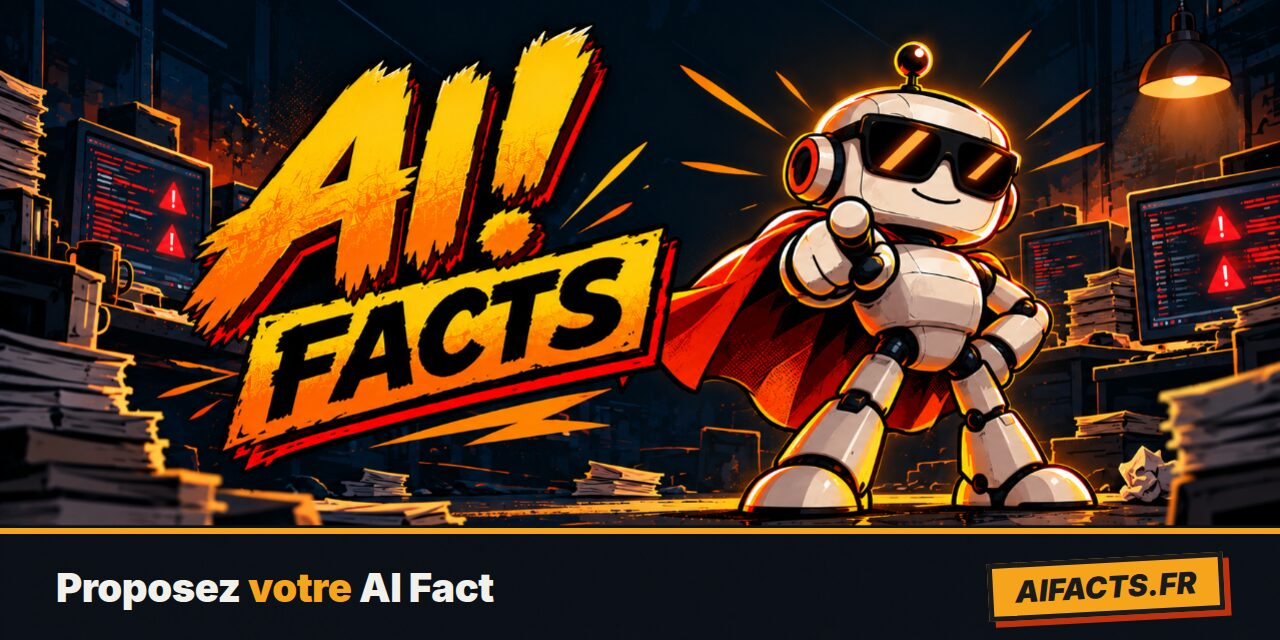
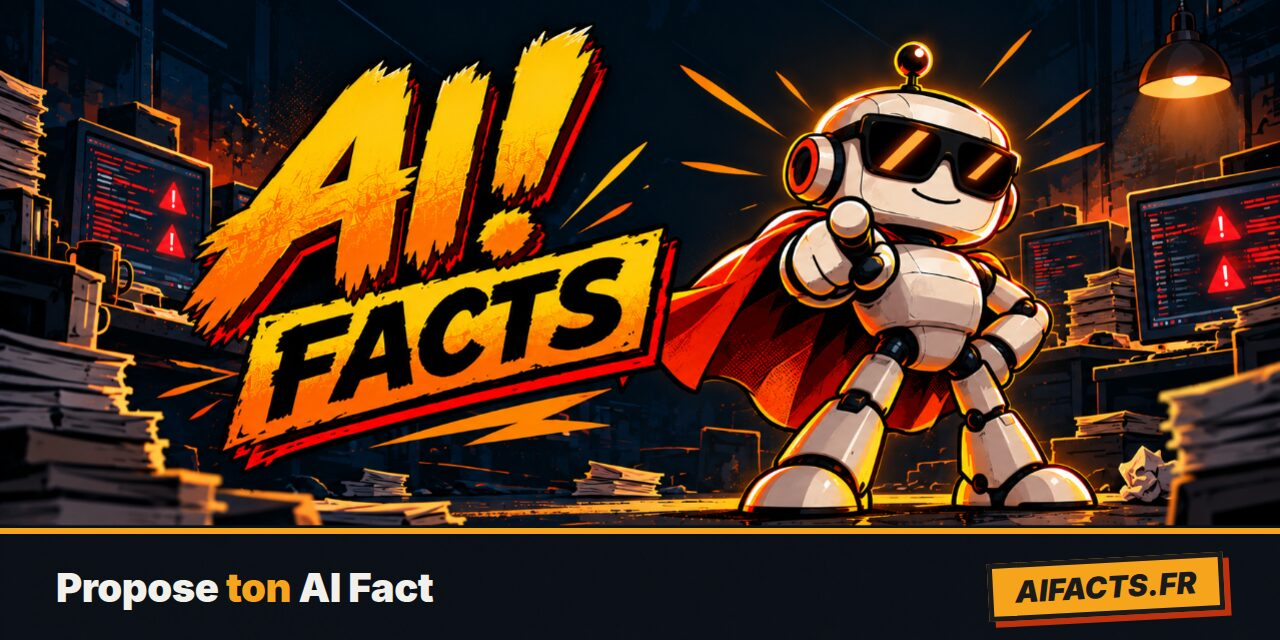
Proposition : aperçu toujours visible et erreurs façon Angular
- mobile : pancarte d'aperçu collée en haut de l'écran pendant la saisie
- grand écran : formulaire et carte côte à côte, la carte suit le défilement
- erreurs affichées en CSS (:user-invalid, ou après une tentative d'envoi)
- bannière « Propose ton AI Fact » (tutoiement)

Claude-Session: https://claude.ai/code/session_01TqedjswTJjNYBePk5txuqT

Changed region(s): [[0.1562, 0.875, 0.4062, 0.9688]]

diff --git a/site/proposer/index.html b/site/proposer/index.html
@@ -4,77 +4,78 @@
 <meta charset="utf-8">
 <meta name="viewport" content="width=device-width, initial-scale=1">
 <title>Proposer un AI Fact – AI! FACTS</title>
-<meta name="description" content="Proposez votre AI Fact : une accroche, une chute. Les meilleurs sont publiés le vendredi sur LinkedIn et sur aifacts.fr, avec le nom de leur auteur.">
-<meta property="og:title" content="Proposez votre AI Fact">
+<meta name="description" content="Propose ton AI Fact : une accroche, une chute. Les meilleurs sont publiés le vendredi sur LinkedIn et sur aifacts.fr, avec le nom de leur auteur.">
+<meta property="og:title" content="Propose ton AI Fact">
 <meta property="og:description" content="Une accroche, une chute. Les meilleurs AI Facts sont publiés le vendredi, avec le nom de leur auteur.">
 <meta property="og:type" content="website">
 <meta property="og:locale" content="fr_FR">
-<meta property="og:image" content="https://aifacts.fr/assets/proposer.jpg">
+<meta property="og:image" content="https://aifacts.fr/assets/proposer.jpg?v=2">
 <meta property="og:url" content="https://aifacts.fr/proposer/">
 <link rel="canonical" href="https://aifacts.fr/proposer/">
 <meta name="twitter:card" content="summary_large_image">
 <link rel="icon" href="/favicon.ico?v=2" sizes="48x48">
 <link rel="icon" type="image/png" href="/assets/favicon-32.png?v=2" sizes="32x32">
 <link rel="apple-touch-icon" href="/assets/apple-touch-icon.png?v=2">
-<link rel="stylesheet" href="/assets/style.css?v=3">
+<link rel="stylesheet" href="/assets/style.css?v=4">
 <script src="/assets/matomo.js"></script>
 </head>
 <body>
-<main>
+<main class="large">
   <a class="retour" href="/">← Retour à l'accueil</a>
-  <img class="banner" src="/assets/proposer.jpg" width="1280" height="640" alt="Le robot AI! FACTS pointe du doigt : « Proposez votre AI Fact ».">
+  <img class="banner" src="/assets/proposer.jpg?v=2" width="1280" height="640" alt="Le robot AI! FACTS pointe du doigt : « Propose ton AI Fact ».">
   <h1 class="visually-hidden">Proposer un AI Fact</h1>
 
-  <form class="propose" id="propose" action="/api/propositions.php" method="post" novalidate>
-    <p class="consigne">Une accroche qui reprend le discours « l'IA sait tout faire », une chute qui le pousse jusqu'à l'absurde.</p>
-
-    <div class="champ">
-      <label for="setup">Accroche</label>
-      <input type="text" name="setup" id="setup" maxlength="160" required aria-describedby="setup-erreur" placeholder="Claude a remplacé une équipe de 10 développeurs.">
-      <p class="erreur-champ" id="setup-erreur"></p>
-    </div>
-    <div class="champ">
-      <label for="punchline">Chute</label>
-      <input type="text" name="punchline" id="punchline" maxlength="160" required aria-describedby="punchline-erreur" placeholder="Il en a fallu 12 pour relire son code.">
-      <p class="erreur-champ" id="punchline-erreur"></p>
-    </div>
-
-    <div class="apercu" id="apercu" hidden>
-      <p>Aperçu</p>
+  <div class="propose-layout">
+    <!-- Aperçu : carte collante à droite sur grand écran, pancarte collante en haut sur mobile -->
+    <div class="apercu" aria-hidden="true">
       <div class="card">
         <img src="/assets/aifacts-robot.jpg" alt="">
         <div class="fact">
-          <p class="a" id="a"></p>
-          <p class="b" id="b"></p>
+          <p class="a vide" id="a"></p>
+          <p class="b vide" id="b"></p>
         </div>
         <p class="tag">Ton fact</p>
       </div>
     </div>
 
-    <div class="champ">
-      <label for="author">Ton nom ou pseudo</label>
-      <span class="aide" id="author-aide">Facultatif, pour te créditer si ton fact est publié.</span>
-      <input type="text" name="author" id="author" maxlength="60" autocomplete="nickname" aria-describedby="author-aide">
-    </div>
+    <form class="propose" id="propose" action="/api/propositions.php" method="post" novalidate>
+      <p class="consigne">Une accroche qui reprend le discours « l'IA sait tout faire », une chute qui le pousse jusqu'à l'absurde.</p>
 
-    <div class="piege" aria-hidden="true">
-      <label>Site web <input type="text" name="site_web" tabindex="-1" autocomplete="off"></label>
-    </div>
-    <input type="hidden" name="t" id="t">
+      <div class="champ">
+        <label for="setup">Accroche</label>
+        <input type="text" name="setup" id="setup" maxlength="160" required pattern=".*\S.*" aria-describedby="setup-erreur" placeholder="Claude a remplacé une équipe de 10 développeurs.">
+        <p class="erreur-champ" id="setup-erreur">Il manque l'accroche.</p>
+      </div>
+      <div class="champ">
+        <label for="punchline">Chute</label>
+        <input type="text" name="punchline" id="punchline" maxlength="160" required pattern=".*\S.*" aria-describedby="punchline-erreur" placeholder="Il en a fallu 12 pour relire son code.">
+        <p class="erreur-champ" id="punchline-erreur">Il manque la chute.</p>
+      </div>
+      <div class="champ">
+        <label for="author">Ton nom ou pseudo</label>
+        <span class="aide" id="author-aide">Facultatif, pour te créditer si ton fact est publié.</span>
+        <input type="text" name="author" id="author" maxlength="60" autocomplete="nickname" aria-describedby="author-aide">
+      </div>
 
-    <div class="champ">
-      <label class="regles">
-        <input type="checkbox" name="regles" id="regles" value="oui" required aria-describedby="regles-erreur">
-        Mon fact est original, ne vise aucune personne réelle et j'accepte sa publication sous licence CC BY 4.0.
-      </label>
-      <p class="erreur-champ" id="regles-erreur"></p>
-    </div>
+      <div class="piege" aria-hidden="true">
+        <label>Site web <input type="text" name="site_web" tabindex="-1" autocomplete="off"></label>
+      </div>
+      <input type="hidden" name="t" id="t">
 
-    <button type="submit" class="btn">Envoyer mon fact</button>
-    <p class="statut" id="statut" role="status"></p>
-    <p class="alt">Les meilleurs sont publiés le vendredi, avec le nom de leur auteur.<br>
-      Tu préfères GitHub ? <a href="https://github.com/manooweb/aifacts/issues/new?template=nouveau-fact.yml">Ouvre une issue</a>.</p>
-  </form>
+      <div class="champ">
+        <label class="regles">
+          <input type="checkbox" name="regles" id="regles" value="oui" required aria-describedby="regles-erreur">
+          Mon fact est original, ne vise aucune personne réelle et j'accepte sa publication sous licence CC BY 4.0.
+        </label>
+        <p class="erreur-champ" id="regles-erreur">Coche cette case pour pouvoir envoyer ton fact.</p>
+      </div>
+
+      <button type="submit" class="btn">Envoyer mon fact</button>
+      <p class="statut" id="statut" role="status"></p>
+      <p class="alt">Les meilleurs sont publiés le vendredi, avec le nom de leur auteur.<br>
+        Tu préfères GitHub ? <a href="https://github.com/manooweb/aifacts/issues/new?template=nouveau-fact.yml">Ouvre une issue</a>.</p>
+    </form>
+  </div>
 </main>
 <footer>aifacts.fr — 100 % véridique* · <span>*ou presque</span> · <a href="https://github.com/manooweb/aifacts">Code source sur GitHub</a></footer>
 
@@ -82,43 +83,30 @@
   const form = document.getElementById('propose');
   const setup = document.getElementById('setup');
   const punchline = document.getElementById('punchline');
-  const regles = document.getElementById('regles');
   const statut = document.getElementById('statut');
-  const apercu = document.getElementById('apercu');
   const horodater = () => { document.getElementById('t').value = Math.floor(Date.now() / 1000); };
   horodater();
 
-  // Aperçu du fact sur la carte pendant la saisie
+  // Aperçu : le texte saisi, ou l'exemple en grisé tant que le champ est vide
+  const afficher = (champ, cible) => {
+    const texte = champ.value.trim();
+    cible.textContent = texte || champ.placeholder;
+    cible.classList.toggle('vide', !texte);
+  };
   const preview = () => {
-    const a = setup.value.trim(), b = punchline.value.trim();
-    apercu.hidden = !a && !b;
-    document.getElementById('a').textContent = a || setup.placeholder;
-    document.getElementById('b').textContent = b || punchline.placeholder;
+    afficher(setup, document.getElementById('a'));
+    afficher(punchline, document.getElementById('b'));
   };
-
-  // Messages d'erreur affichés sous chaque champ (pas de bulles natives)
-  const messages = {
-    setup: 'Il manque l\'accroche.',
-    punchline: 'Il manque la chute.',
-    regles: 'Coche cette case pour pouvoir envoyer ton fact.',
-  };
-  const verifier = (champ) => {
-    const ok = champ.type === 'checkbox' ? champ.checked : champ.value.trim() !== '';
-    champ.setAttribute('aria-invalid', String(!ok));
-    document.getElementById(champ.id + '-erreur').textContent = ok ? '' : messages[champ.id];
-    return ok;
-  };
-  [setup, punchline].forEach((champ) => champ.addEventListener('input', () => {
-    preview();
-    if (champ.getAttribute('aria-invalid') === 'true') verifier(champ);
-  }));
-  regles.addEventListener('change', () => verifier(regles));
+  preview();
+  setup.addEventListener('input', preview);
+  punchline.addEventListener('input', preview);
 
   form.addEventListener('submit', async (e) => {
     e.preventDefault();
-    const invalides = [setup, punchline, regles].filter((champ) => !verifier(champ));
-    if (invalides.length) {
-      invalides[0].focus();
+    // Les erreurs s'affichent en CSS : après la saisie (:user-invalid), ou pour tous les champs après une tentative d'envoi
+    form.classList.add('soumis');
+    if (!form.checkValidity()) {
+      form.querySelector(':invalid').focus();
       return;
     }
     const button = form.querySelector('button');
@@ -133,6 +121,7 @@
       statut.textContent = 'Merci ! Ton fact est en lice pour un prochain vendredi.';
       window._paq && _paq.push(['trackEvent', 'Fact', 'Proposition']);
       form.reset();
+      form.classList.remove('soumis');
       horodater();
       preview();
     } catch (err) {

diff --git a/site/assets/style.css b/site/assets/style.css
@@ -66,8 +66,10 @@ footer { margin-top: 40px; color: var(--muted); font-size: 13px; text-align: cen
 .intro p { margin: 0; color: var(--muted); font-size: 16px; line-height: 1.5; }
 
 /* Page de proposition */
-.banner { width: 100%; height: auto; display: block; border-radius: 12px; box-shadow: 0 20px 60px rgba(0,0,0,.6); }
+main.large { max-width: 1100px; }
+.banner { width: 100%; max-width: 760px; height: auto; display: block; border-radius: 12px; box-shadow: 0 20px 60px rgba(0,0,0,.6); }
 .retour { align-self: flex-start; font-size: 14px; }
+.propose-layout { width: 100%; max-width: 640px; display: flex; flex-direction: column; gap: 18px; }
 .propose { width: 100%; display: flex; flex-direction: column; gap: 18px; }
 .propose .consigne { margin: 0; color: var(--muted); line-height: 1.5; text-align: center; }
 .champ { display: flex; flex-direction: column; gap: 6px; }
@@ -80,17 +82,44 @@ footer { margin-top: 40px; color: var(--muted); font-size: 13px; text-align: cen
 }
 .champ input[type=text]::placeholder { color: #8C8478; font-weight: 400; }
 .champ input[type=text]:focus-visible { outline: 3px solid var(--amber); outline-offset: 2px; }
-.champ input[aria-invalid=true] { border-color: var(--error); box-shadow: 4px 4px 0 var(--error); }
-.erreur-champ { margin: 0; color: var(--error); font-size: 14px; font-weight: 700; }
-.erreur-champ:empty { display: none; }
 .champ label.regles { font-weight: 400; }
 .regles { display: flex; align-items: flex-start; gap: 10px; color: var(--muted); font-size: 14px; line-height: 1.4; }
 .regles input { width: 20px; height: 20px; margin: 0; flex: none; accent-color: var(--amber); }
-.apercu { display: flex; flex-direction: column; gap: 10px; }
-.apercu > p { margin: 0; font-weight: 800; font-size: 15px; }
 .propose .btn { align-self: center; margin-top: 6px; }
 .piege { position: absolute; left: -9999px; width: 1px; height: 1px; overflow: hidden; }
 .statut { margin: 0; min-height: 1.4em; text-align: center; font-weight: 800; }
 .statut.ok { color: var(--amber); }
 .statut.erreur { color: var(--error); }
 .alt { margin: 0; text-align: center; color: var(--muted); font-size: 14px; line-height: 1.5; }
+
+/* Erreurs façon Angular : un champ n'est signalé qu'une fois touché (:user-invalid), ou après une tentative d'envoi (.soumis) */
+.erreur-champ { display: none; margin: 0; color: var(--error); font-size: 14px; font-weight: 700; }
+.champ input:user-invalid ~ .erreur-champ,
+.soumis .champ input:invalid ~ .erreur-champ,
+.champ .regles:has(input:user-invalid) ~ .erreur-champ,
+.soumis .champ .regles:has(input:invalid) ~ .erreur-champ { display: block; }
+.champ input[type=text]:user-invalid,
+.soumis .champ input[type=text]:invalid { border-color: var(--error); box-shadow: 4px 4px 0 var(--error); }
+
+/* Aperçu : texte d'exemple en grisé tant que le champ est vide */
+.apercu .fact .vide { opacity: .4; }
+
+/* Mobile : l'aperçu devient une pancarte compacte qui reste en haut de l'écran pendant la saisie */
+@media (max-width: 959px) {
+  .apercu { position: sticky; top: 0; z-index: 2; padding: 10px 6px 14px; margin: 0 -6px; background: var(--bg); }
+  .apercu .card {
+    aspect-ratio: auto; overflow: visible; border-radius: 0;
+    background: #FFF8E7; border: 3px solid var(--dark); box-shadow: 4px 4px 0 var(--shadow);
+    transform: rotate(-1.5deg);
+  }
+  .apercu .card img, .apercu .tag { display: none; }
+  .apercu .fact { position: static; width: auto; height: auto; padding: 10px 14px; gap: 6px; transform: none; }
+  .apercu .fact p { font-size: 15px; }
+}
+
+/* Grand écran : formulaire à gauche, carte à droite qui suit le défilement */
+@media (min-width: 960px) {
+  .propose-layout { max-width: none; display: grid; grid-template-columns: minmax(0, 1fr) minmax(0, 1fr); gap: 48px; align-items: start; }
+  .propose { grid-column: 1; grid-row: 1; }
+  .apercu { grid-column: 2; grid-row: 1; position: sticky; top: 24px; }
+}

diff --git a/site/index.html b/site/index.html
@@ -16,7 +16,7 @@
 <link rel="icon" href="/favicon.ico?v=2" sizes="48x48">
 <link rel="icon" type="image/png" href="/assets/favicon-32.png?v=2" sizes="32x32">
 <link rel="apple-touch-icon" href="/assets/apple-touch-icon.png?v=2">
-<link rel="stylesheet" href="/assets/style.css?v=3">
+<link rel="stylesheet" href="/assets/style.css?v=4">
 <script src="/assets/matomo.js"></script>
 </head>
 <body>
